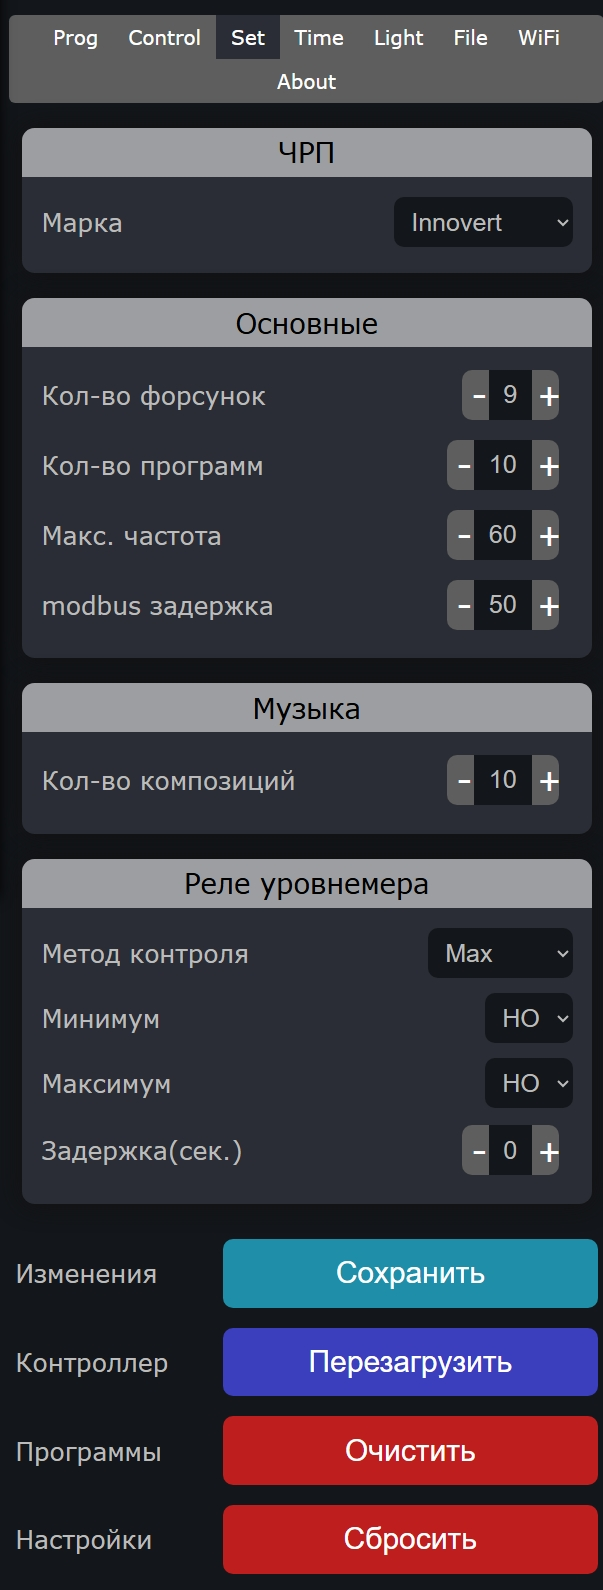
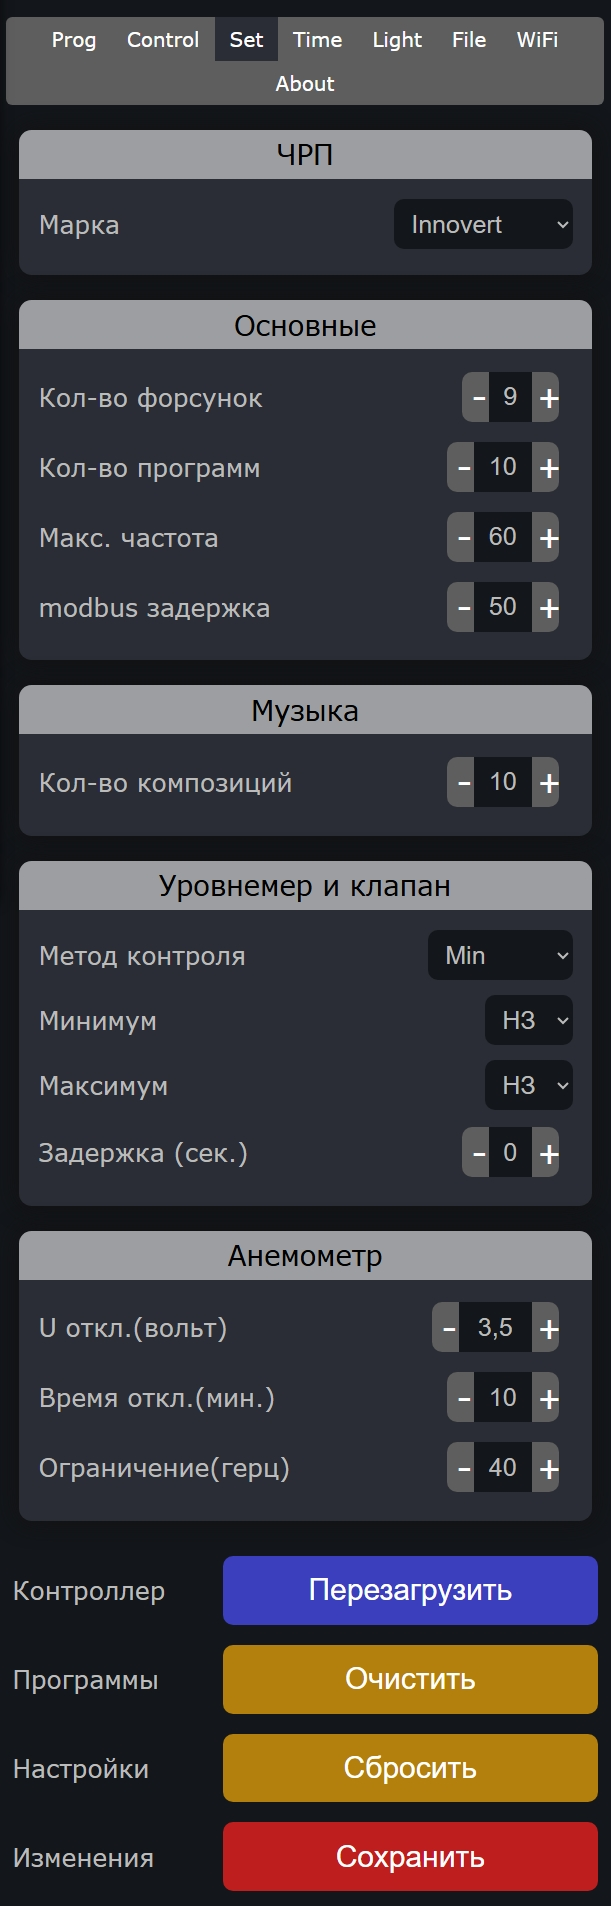
wind

diff --git a/index.html b/index.html
@@ -755,6 +755,30 @@
                     <td>Время задержки срабатывания</td>
                 </tr>
             </table>
+
+            <h3>Настройки датчика ветра</h3>
+            <table>
+                <tr>
+                    <th>Параметр</th>
+                    <th>Варианты</th>
+                    <th>Описание</th>
+                </tr>
+                <tr>
+                    <td>U откл</td>
+                    <td>0-5 Вольт</td>
+                    <td>Напряжение сработки</td>
+                </tr>
+                <tr>
+                    <td>Время откл.</td>
+                    <td>0-30 минут</td>
+                    <td>На какое время действует</td>
+                </tr>
+                <tr>
+                    <td>Ограничение</td>
+                    <td>0-100 Герц</td>
+                    <td>Верхнее ограничение частоты</td>
+                </tr>
+            </table>
             <div class="step-content">
                 Все изменения вступят в силу сразу. Но сохранятся если нажать кнопку "СОХРАНИТЬ"
             </div>
@@ -917,7 +941,8 @@
             <div class="step">
                 <div class="step-number">1</div>
                 <div class="step-content">
-                    <strong>Загрузите музыкальные треки</strong> на sd карту установленную в контроллере с помощью картридера.
+                    <strong>Загрузите музыкальные треки</strong> на sd карту установленную в контроллере с помощью
+                    картридера.
                 </div>
             </div>
             <div class="step">
@@ -929,13 +954,15 @@
             <div class="step">
                 <div class="step-number">2</div>
                 <div class="step-content">
-                    <strong>Укажите номер трека для текущей программы</strong> (random-случайный, flow-от предыдущей программы)
+                    <strong>Укажите номер трека для текущей программы</strong> (random-случайный, flow-от предыдущей
+                    программы)
                 </div>
             </div>
             <div class="step">
                 <div class="step-number">3</div>
                 <div class="step-content">
-                    <strong>Выберите реакцию плейера при повторах"</strong> (Рестарт-перезапуск композиции, Продолжить-продолжение воспроизведения)
+                    <strong>Выберите реакцию плейера при повторах"</strong> (Рестарт-перезапуск композиции,
+                    Продолжить-продолжение воспроизведения)
                 </div>
             </div>
             <div class="step">
